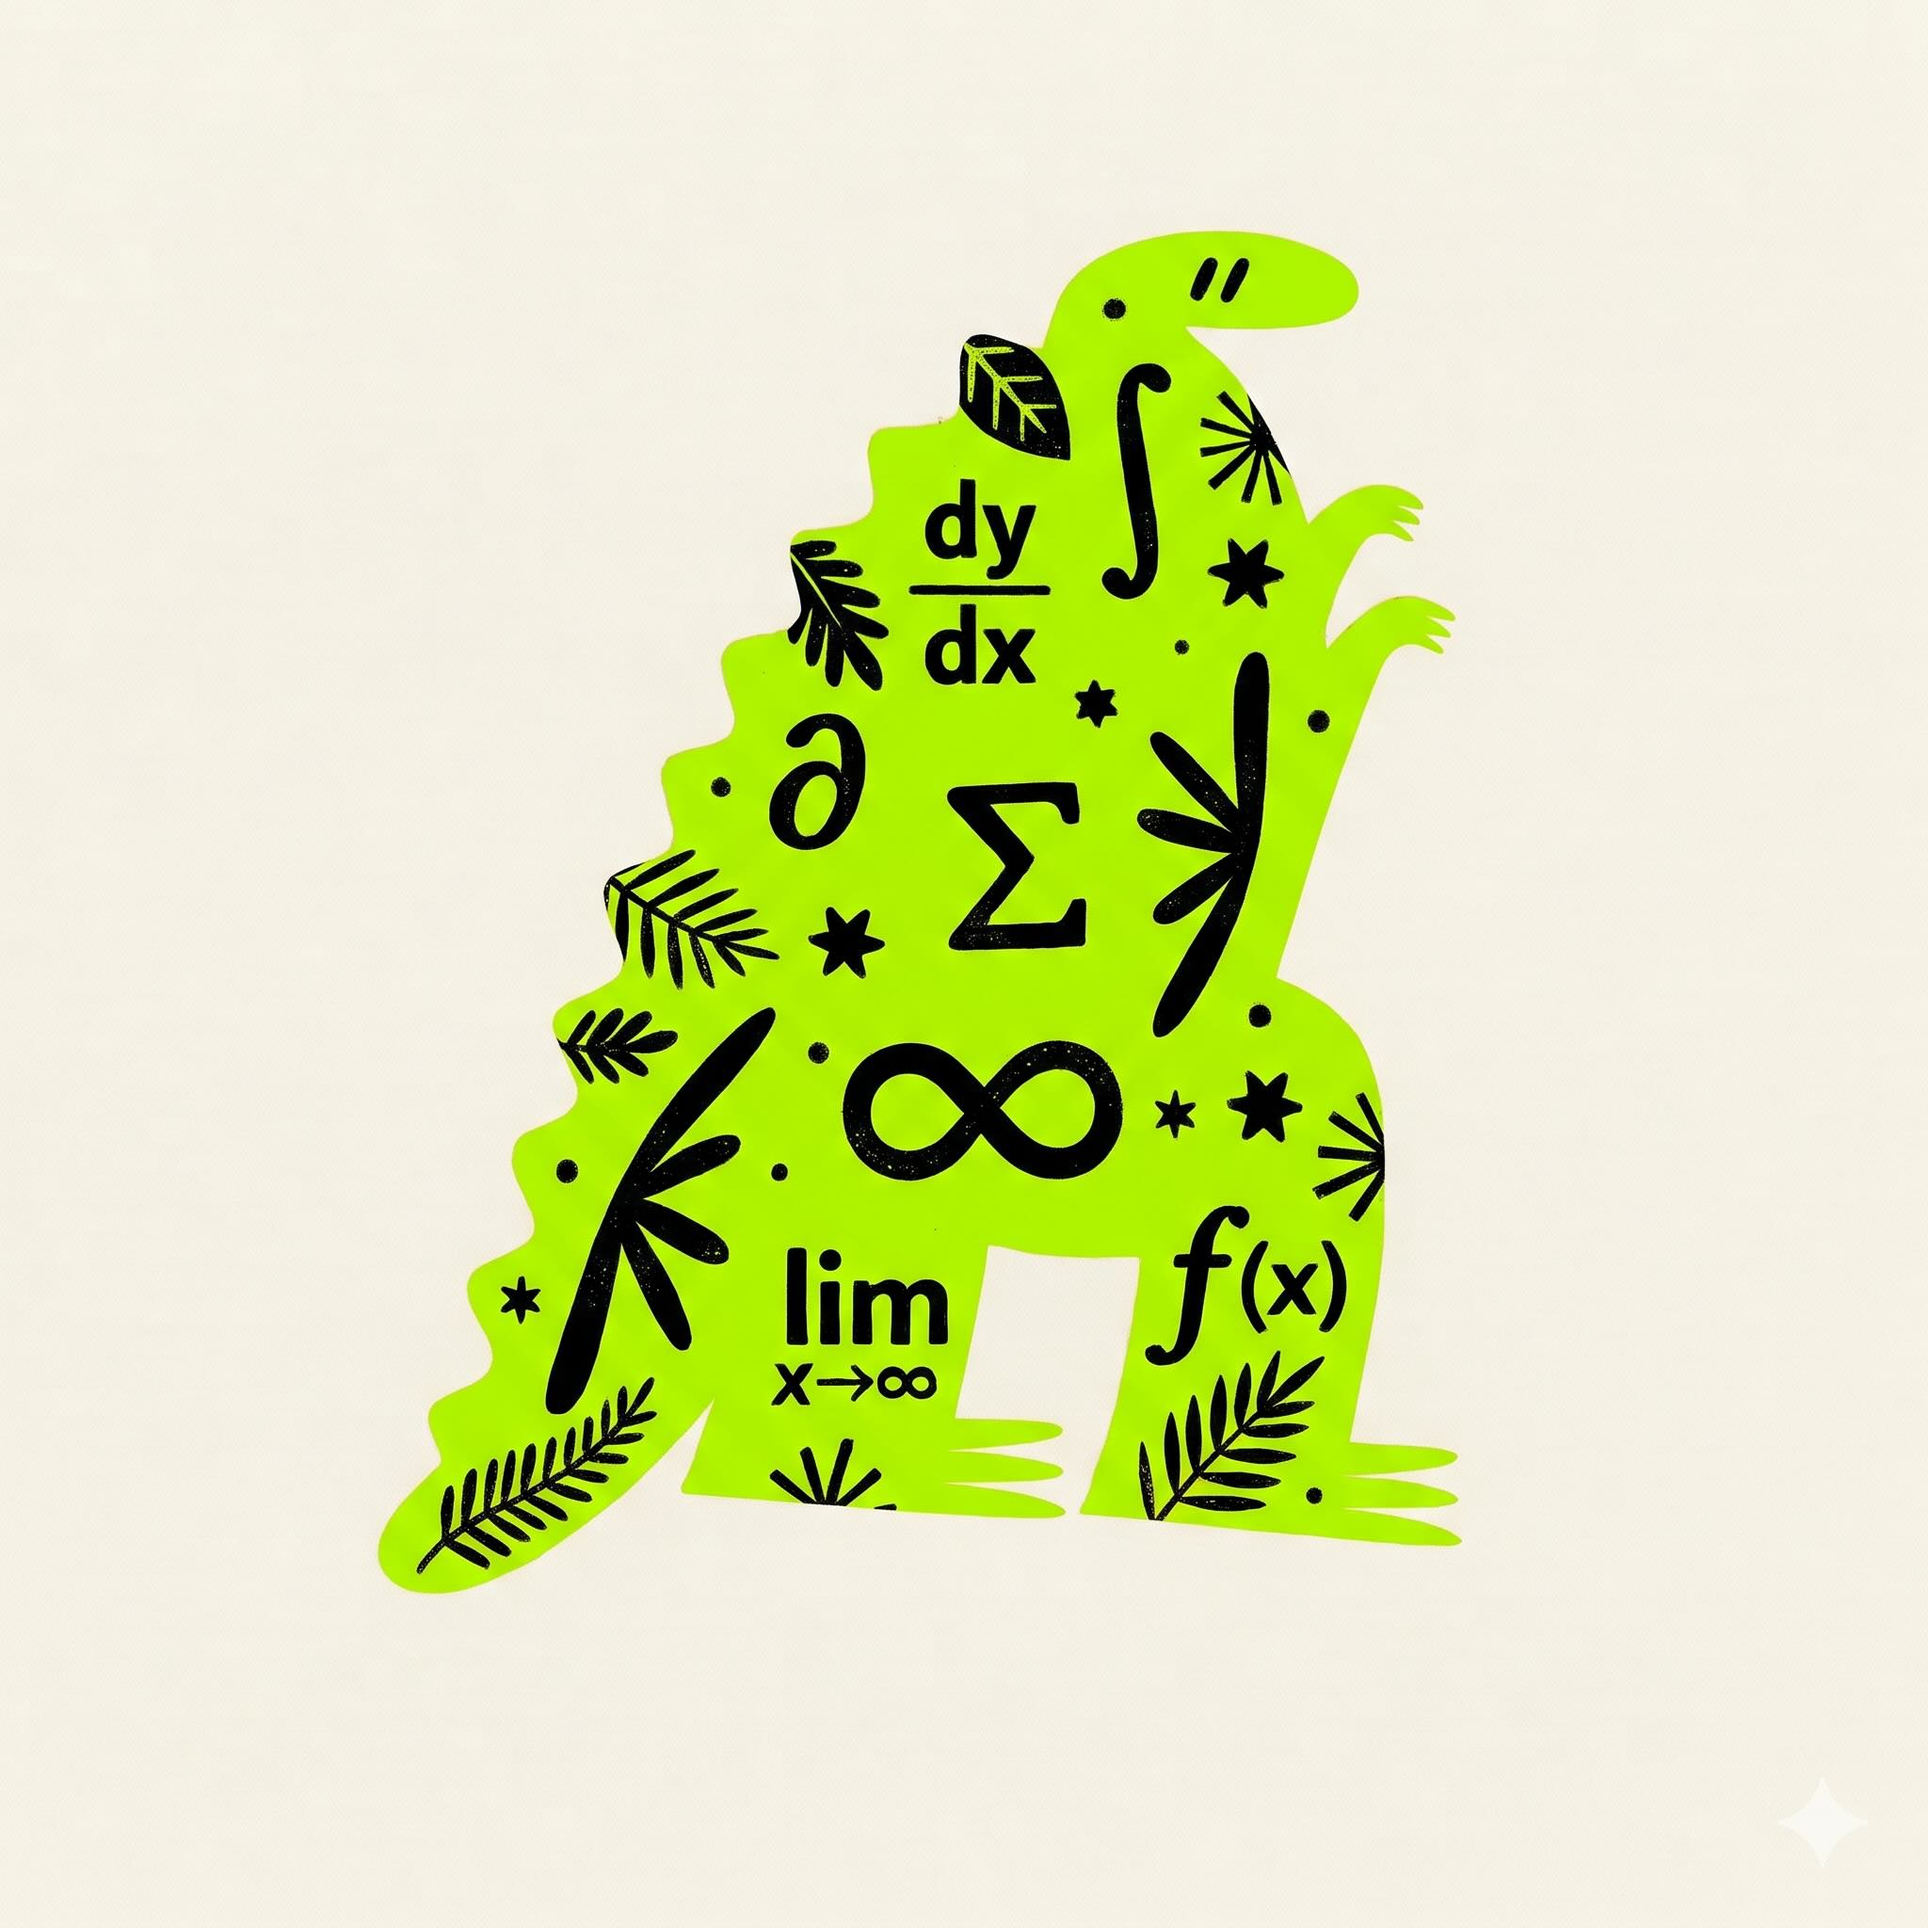
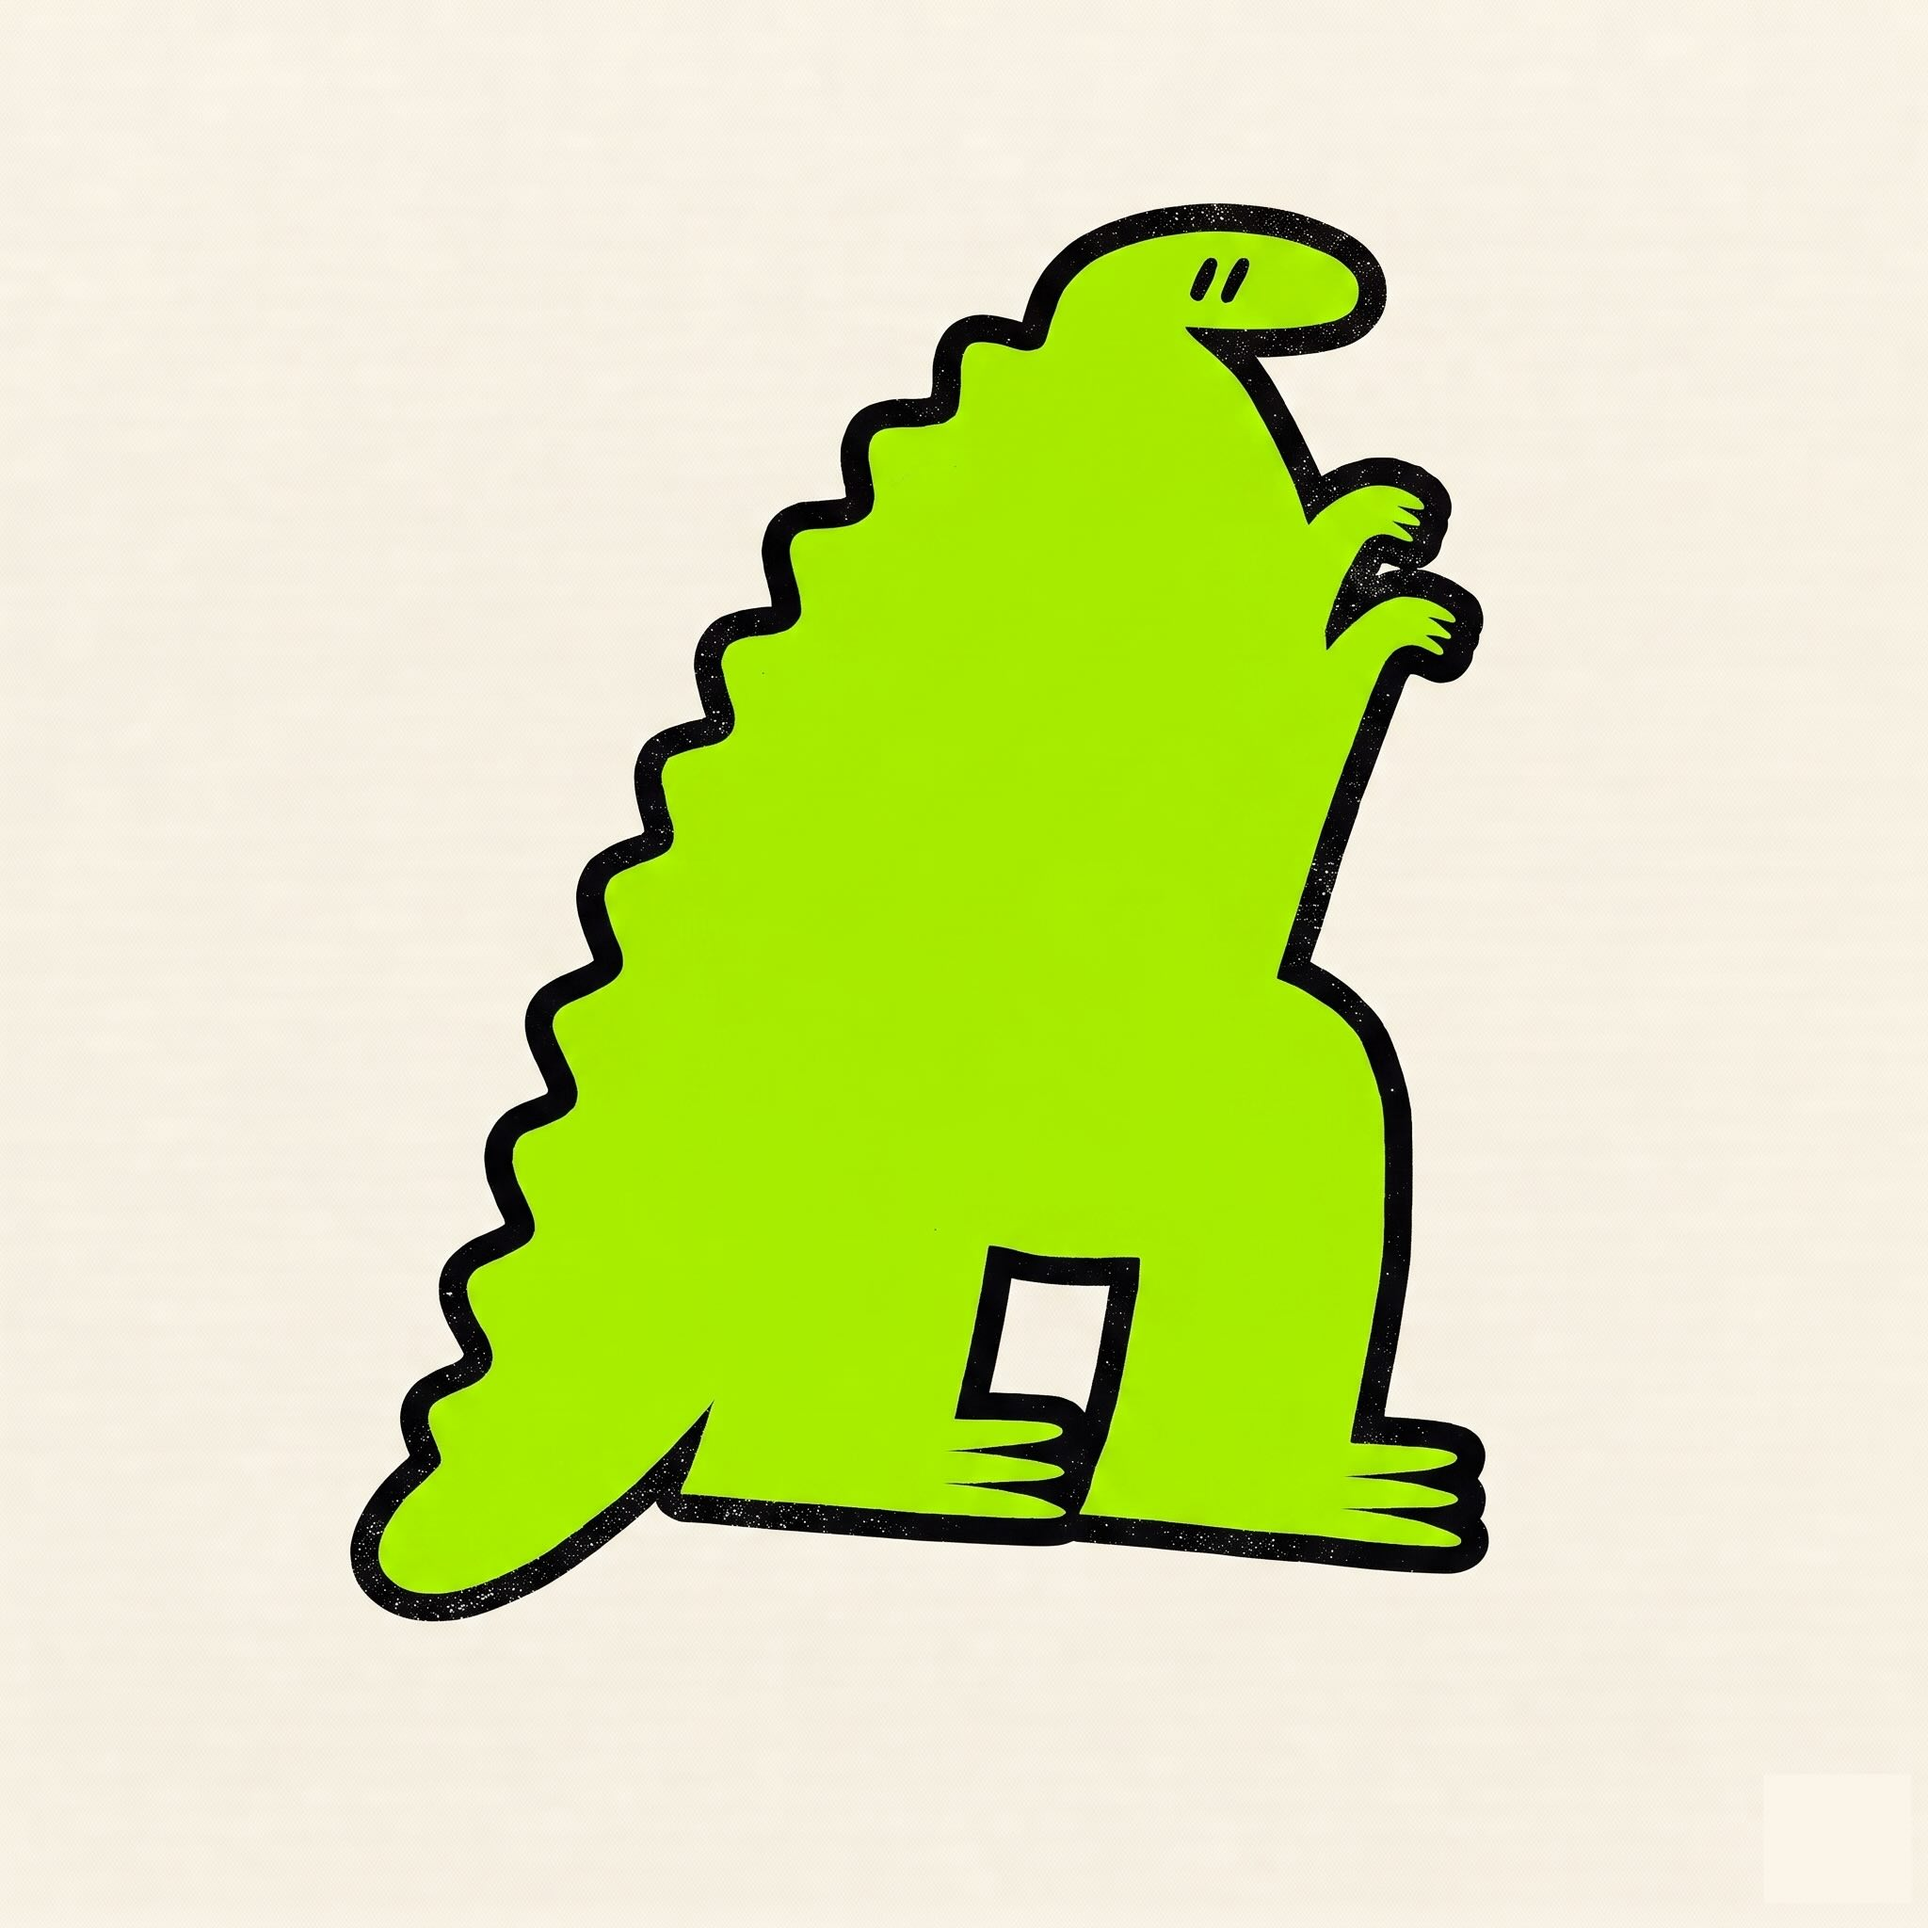
Final and more

Changed region(s): [[0.1562, 0.0938, 0.7812, 0.8438]]

diff --git a/src/components/LaunchScreen.js b/src/components/LaunchScreen.js
@@ -42,7 +42,7 @@ export default function LaunchScreen({ visible, bottomInset, onFinish }) {
           />
 
           <View style={styles.titleStack}>
-            <DotMatrixText text="INTEGROSAROUS" dotSize={2} gap={1.2} color="#111113" />
+            <DotMatrixText text="INTEGROSAUR" dotSize={2} gap={1.2} color="#111113" />
           </View>
         </View>
 

diff --git a/README.md b/README.md
@@ -1,4 +1,4 @@
-# 🦕 Integrosaurus
+# 🦕 Integrosaur
 
 > **Feed the beast one integral a day. Survive another day.**
 
